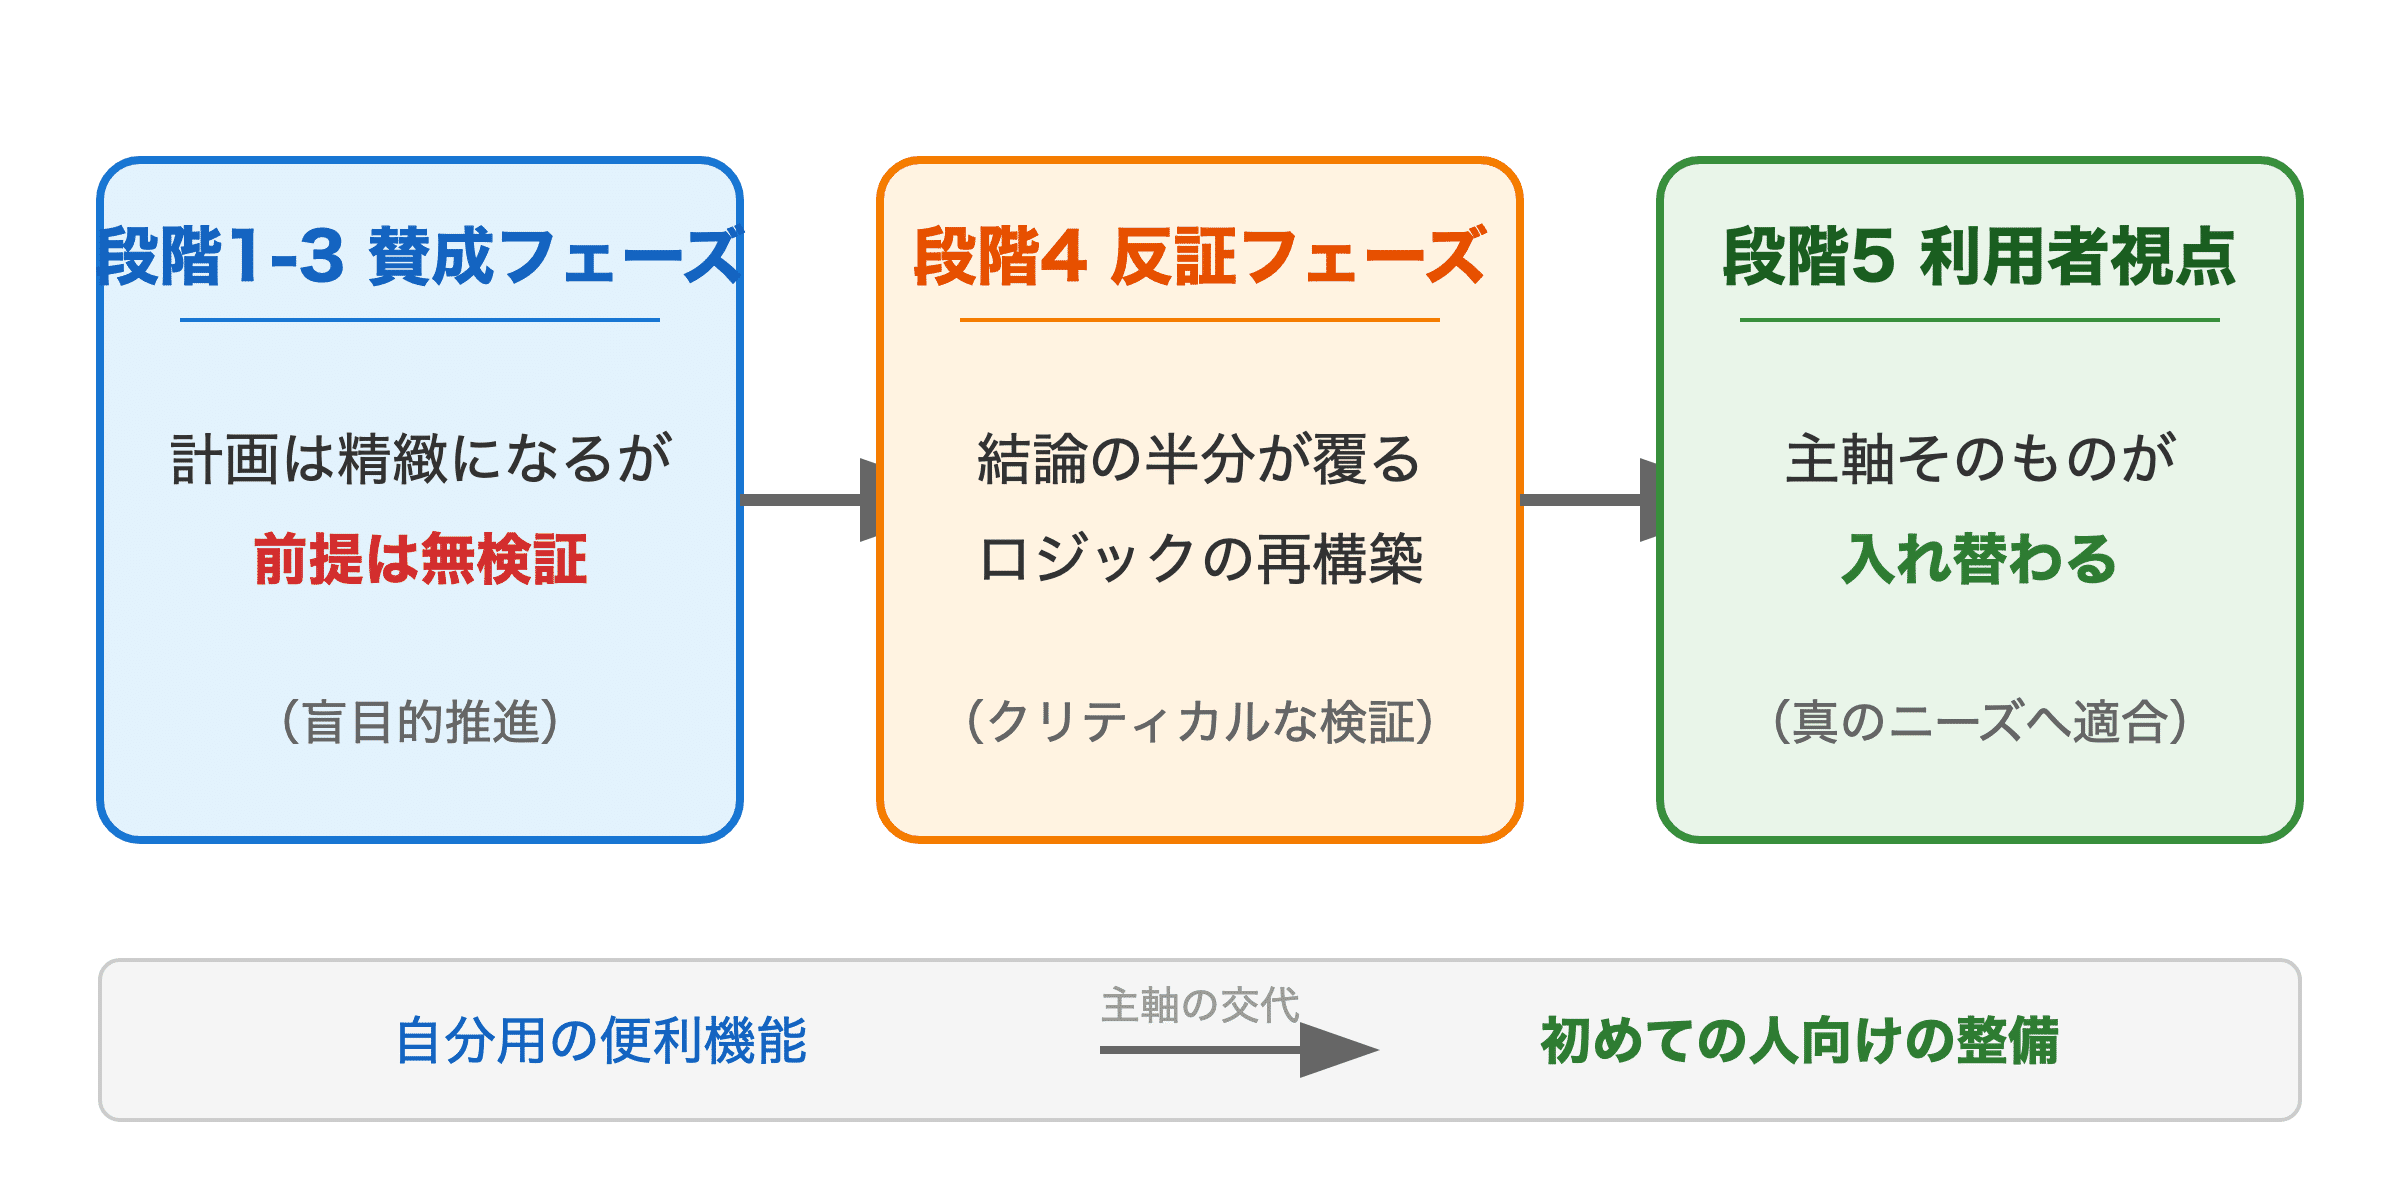
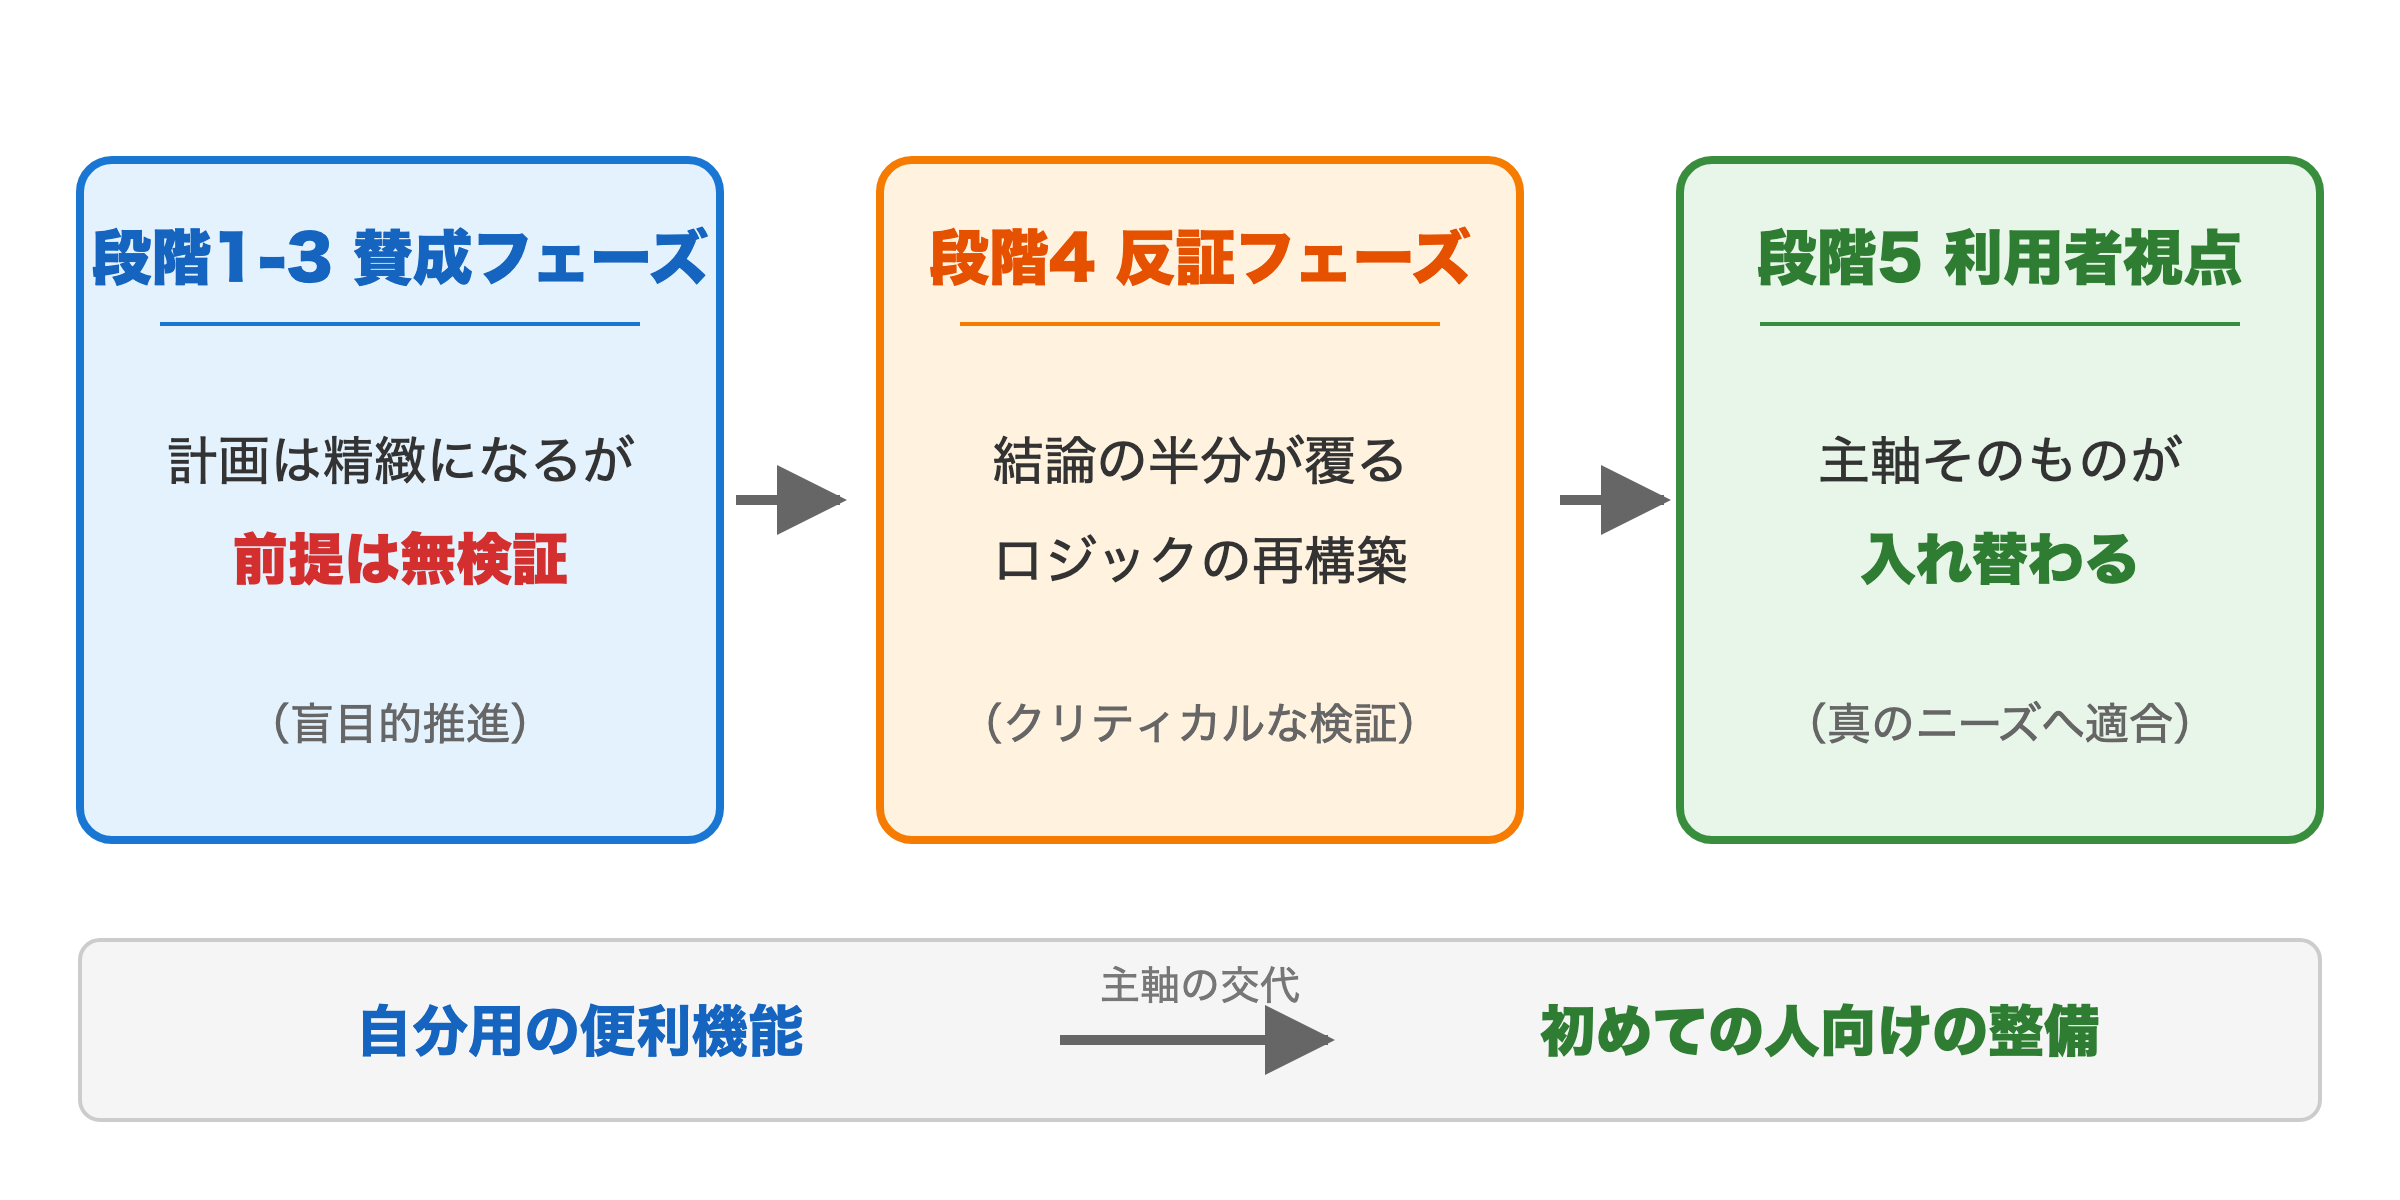
docs(note): improve readability of n5fe2e97b9600 stage map and figure

diff --git a/reviews/note/published/n5fe2e97b9600.design-skill-review.md b/reviews/note/published/n5fe2e97b9600.design-skill-review.md
@@ -1,0 +1,39 @@
+# n5fe2e97b9600 読みやすさ改善（design skill レビュー）
+
+- 対象: `articles_note/published/n5fe2e97b9600.md`（ChatGPTに賛成ばかりされて困っている人へ）
+- 実施日: 2026-11-08
+
+## 手順
+
+1. note API v3 で公開本文を取得し、ミラーと照合した。本文は一致し、「まず、5 段階の地図」の表は公開版でも 1 段落に潰れていた
+2. `design-skills:accessibility-audit` と `design-skills:design-critique` の観点で ID 付きの案を作り、図は `design-skills:design-elevation` の観点を加えた
+3. Codex（`codex exec --sandbox read-only`）に各案を ADOPT / ADJUST / AUTHOR / REJECT で独立判定させ、事実も確認させた。Claude の判定は先に確定した
+4. 両者が ADOPT か ADJUST とした案だけを反映した
+
+## スキル別の案数と両者採用可の数
+
+| スキル | 案数 | 両者採用可 |
+| --- | --- | --- |
+| accessibility-audit | 4（A1-A4） | 3（A1, A2, A3） |
+| design-critique | 5（D1-D5） | 0 |
+| design-elevation | 1（E1） | 1 |
+
+## 反映した案
+
+- A1: 平文化した表を、段階ごとの箇条書きに戻した（文言は変えていない）
+- A2 / E1: 図を描き直した。段階 1-3 の見出しが枠からはみ出して欠けていた点と、矢印が箱に隠れていた点を直した。文言、配色（青・橙・緑・灰）、赤と緑の太字強調は原図のまま保った
+- A3: 描き直した図に alt を付けた
+
+## 著者判断として残した案
+
+- D1: 図は「結論の半分が覆る」、本文は「半分以上」。どちらに揃えるか
+- D2: 図の「ロジックの再構築」「（盲目的推進）」などは本文に無い語。残すか
+- D3: 「転換点は 4 段階目でした。同じ AI に」の「同じ AI」が誰か（地図では段階 1-3 が Claude / Codex、段階 4 が Codex）。明記するか
+- D4: まとめの 4 ステップと本文の 5 段階の対応が初見で追いにくい。構成を変えるか
+- D5: タイトルの ChatGPT と、記録した 3 種（Claude・Codex・Gemini）の関係。冒頭で ChatGPT に触れているので誤りではない（当初案の「本文で使っていない」は Codex の確認で不正確と分かった）
+
+## 検証の限界
+
+- note 上で alt が表示・設定されるかは未確認。マージ後の手動反映時に note 管理画面で確認する
+- 図は Chrome headless で PNG 化した。diagram-design 同梱の `export_png.py` は playwright 未導入で使えなかった
+- 図は原図の配色を保つため、diagram-design の既定スキンは適用していない

diff --git a/articles_note/published/n5fe2e97b9600.md b/articles_note/published/n5fe2e97b9600.md
@@ -22,9 +22,11 @@ ChatGPT に計画を相談すると、たいてい賛成してくれます。設
 
 本文に入る前に、全体像を 1 枚で示します（実際の対話はもっと細かく往復していますが、振り返りやすいよう 5 段階に整理しています）。
 
-段階 やったこと 担当 結果 1〜3 賛成側として主軸を詰める Claude / Codex 計画は精緻になるが前提は無検証のまま 4 批判側に回って結論を崩す Codex 結論の半分以上がひっくり返る 5 利用者視点で前提を問い直す Codex 計画の主軸そのものが入れ替わる
+- **段階 1〜3**：賛成側として主軸を詰める（担当：Claude / Codex）。結果：計画は精緻になるが前提は無検証のまま
+- **段階 4**：批判側に回って結論を崩す（担当：Codex）。結果：結論の半分以上がひっくり返る
+- **段階 5**：利用者視点で前提を問い直す（担当：Codex）。結果：計画の主軸そのものが入れ替わる
 
-![](../assets/n5fe2e97b9600_1778836042-rpLDgEE9hl.png)
+![段階1-3の賛成フェーズ（計画は精緻になるが前提は無検証）、段階4の反証フェーズ（結論の半分が覆る）、段階5の利用者視点（主軸そのものが入れ替わる）の3段階。下段に、主軸が自分用の便利機能から初めての人向けの整備へ交代したことを示す](../assets/n5fe2e97b9600_1778836042-rpLDgEE9hl.png)
 
 「賛成 → 反証 → 前提の問い直し」と段階を分けたのがこの記事の肝です。以降はこの地図に沿って進みます。
 
